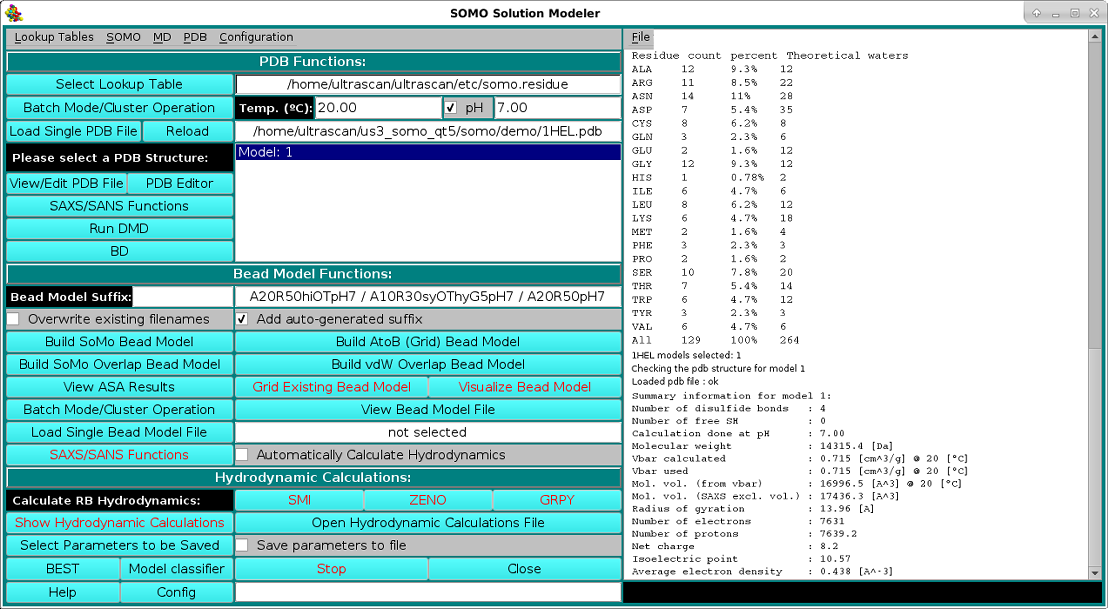
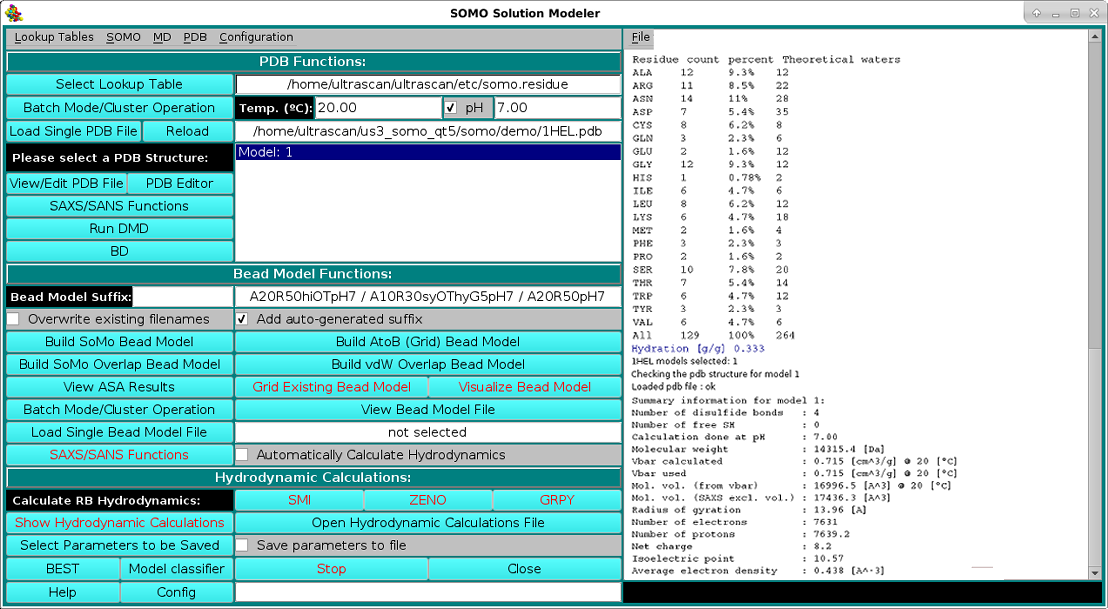
*beta* minor documentation update

Changed region(s): [[0.5523, 0.0624, 0.8899, 0.9672]]

diff --git a/us_somo/somo/doc/manual/somo/somo.html b/us_somo/somo/doc/manual/somo/somo.html
@@ -111,7 +111,7 @@ http://openrasmol.org/#Software</a>.<p>
 <td align=justify>
 
 <p>
-As shown in the picture above, besides visualizing the structure, the HEADER and TITLE fields of the PDB file will be displayed in the progress window, followed by a list of identified disulfide bonds between CYS residues, if any. This is a feature that was already present but was never made operational until the <span style="color:#CC0000">January 2021</span> release. It's active now by default, but can be turned off from the <a href=somo_pdb_parsing.html>PDB parsing</a> pull-down menu, where the cut-off distance (<i><b>default</i>: 2.5 &Aring;</b>) can also be changed. Importantly, if unpaired CYS residues are identified, their name will be changed to "CYH", for which a special entry is defined in the <i>somo.residue</i> table, since some molecular properties slightly differ between free cysteines and disulfide-bonded cystines. The residues sequence in both three- and one-letter codes is then displayed, followed, as shown in the picture below, by a summary of each reside count, percentage, and its associated, pH-dependent theoretical waters of hydration, and by a list of various molecular properties calculated for the model: number of disulfide bonds, number of free SH, molecular weight, partial specific volume (vbar) calculated at the specified T and the one that will be used in the hydrodynamic calculations, molecular volume computed both from vbar and from the individual atomic volumes, number of electrons, number of protons (pH-dependent), net charge at the specified pH, isoelectric point, and the average electron density of each chain and of the whole structure:
+As shown in the picture above, besides visualizing the structure, the HEADER and TITLE fields of the PDB file will be displayed in the progress window, followed by a list of identified disulfide bonds between CYS residues, if any. This is a feature that was already present but was never made operational until the <span style="color:#CC0000">January 2021</span> release. It's active now by default, but can be turned off from the <a href=somo_pdb_parsing.html>PDB parsing</a> pull-down menu, where the cut-off distance (<i><b>default</i>: 2.5 &Aring;</b>) can also be changed. Importantly, if unpaired CYS residues are identified, their name will be changed to "CYH", for which a special entry is defined in the <i>somo.residue</i> table, since some molecular properties slightly differ between free cysteines and disulfide-bonded cystines. The residues sequence in both three- and one-letter codes ("CYH" is defined as "J" there) is then displayed, followed, as shown in the picture below, by a summary of each reside count, percentage, and its associated, pH-dependent theoretical waters of hydration and the corresponding global hydration (g/g, i.e. g water/g protein), and by a list of various molecular properties calculated for the model: number of disulfide bonds, number of free SH, molecular weight, partial specific volume (vbar) calculated at the specified T and the one that will be used in the hydrodynamic calculations, molecular volume computed both from vbar and from the individual atomic volumes, number of electrons, number of protons (pH-dependent), net charge at the specified pH, isoelectric point, and the average electron density of each chain and of the whole structure:
 
 <p>
 
@@ -505,7 +505,7 @@ The latest version of this document can always be found at:
 </font>
 <p>
 <font face="helvetica" size="-1">
-Last modified on January 10, 2021.
+Last modified on January 13, 2021.
 </font>
 </body>
 </html>
